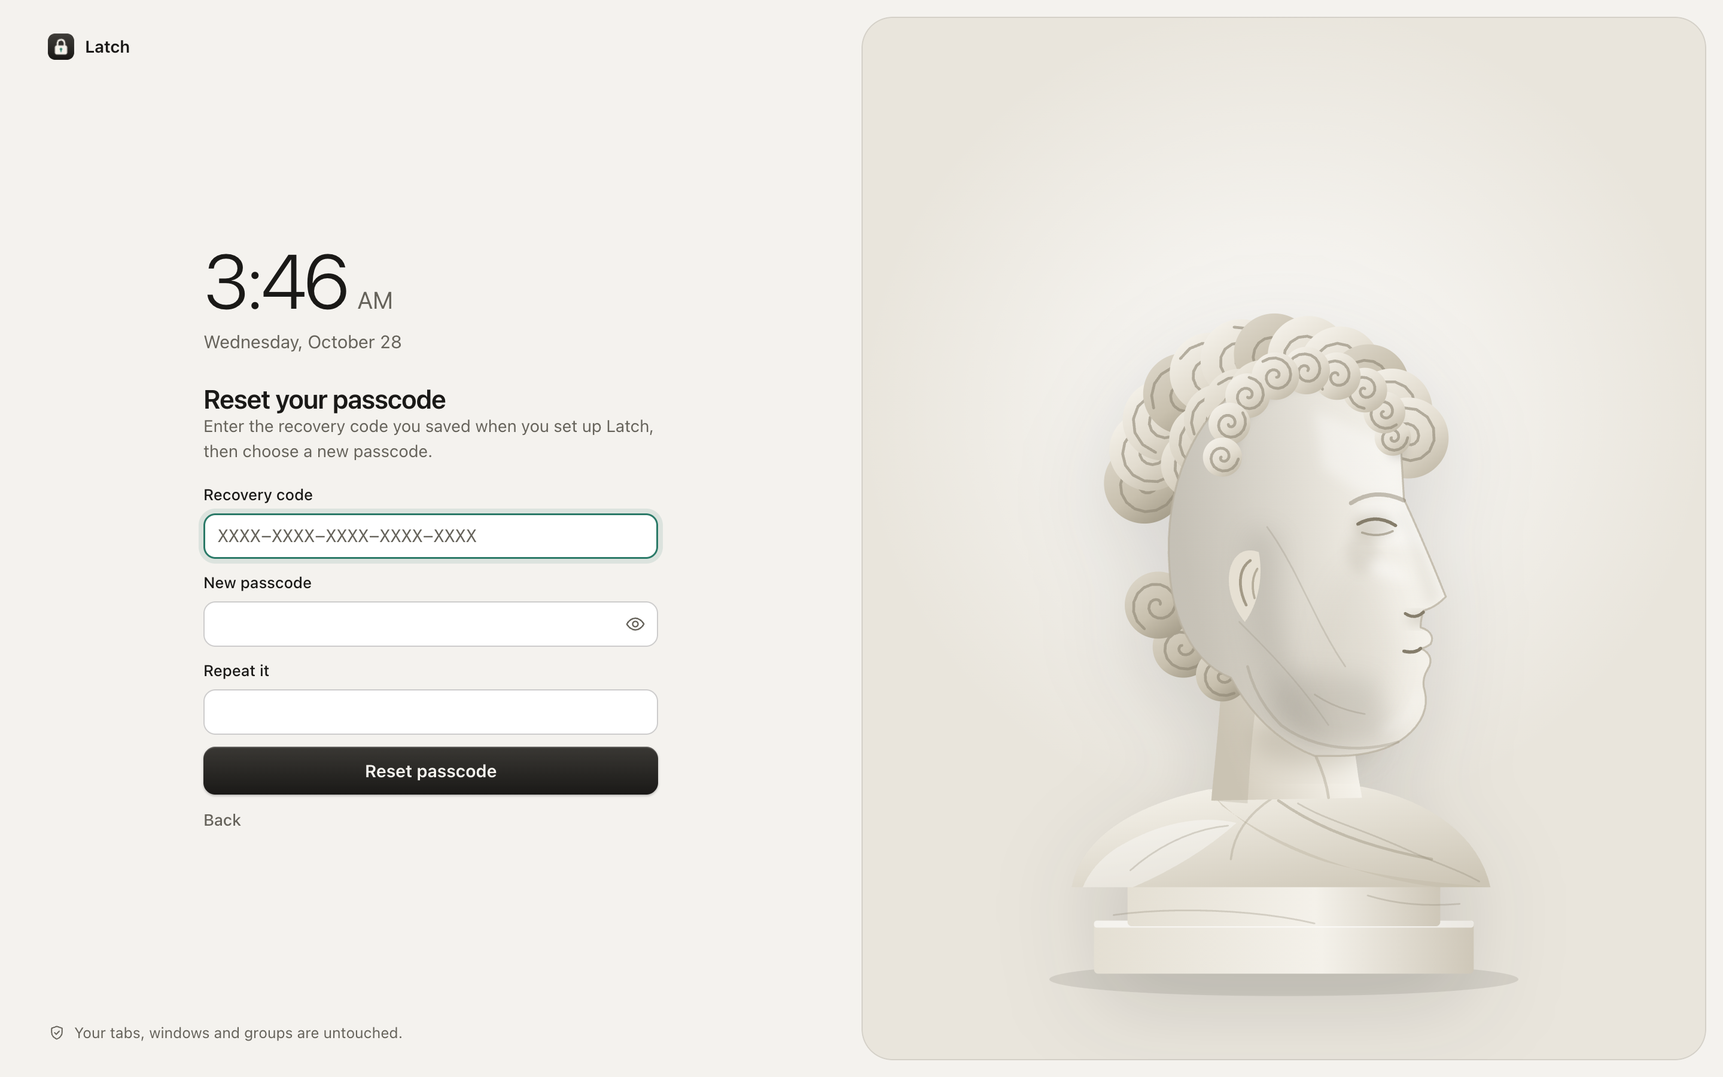
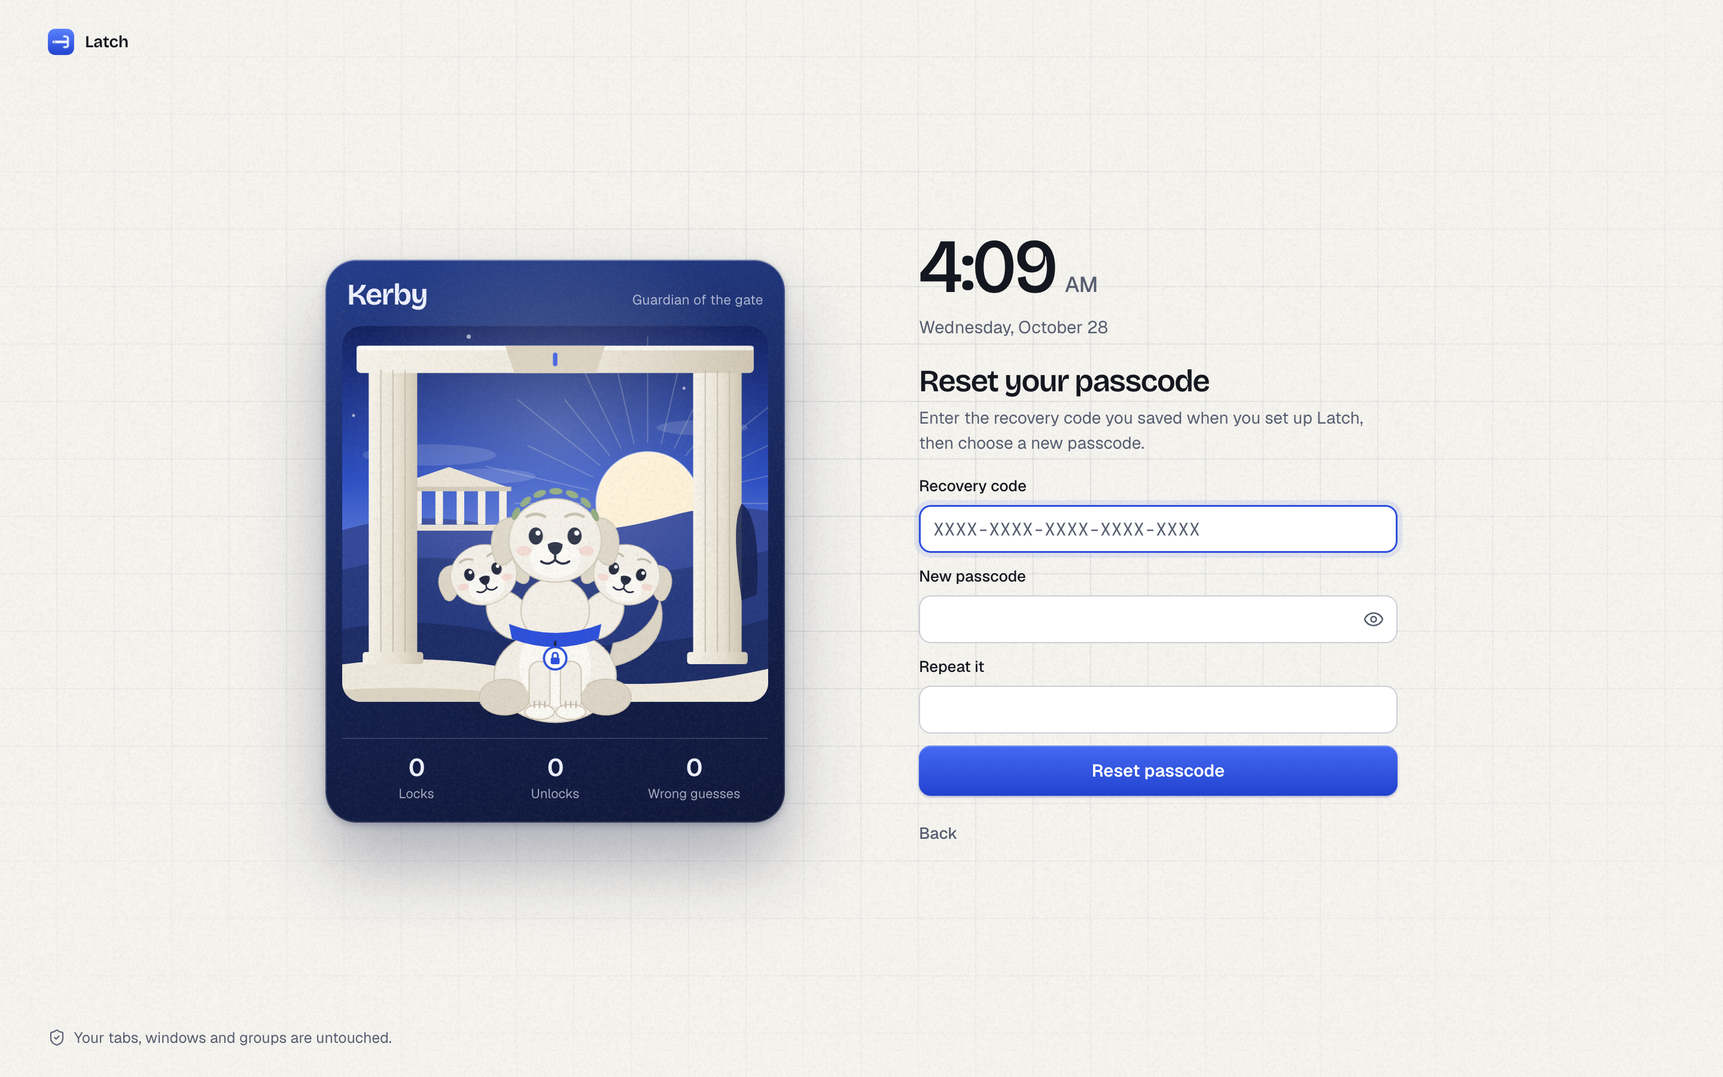
Update tests, screenshots, README and research for 0.3.0

diff --git a/README.md b/README.md
@@ -1,198 +1,127 @@
 <p align="center">
-  <img src="docs/logo.png" alt="Latch" width="104">
+  <img src="docs/logo.png" alt="Latch" width="88">
 </p>
 
 <h1 align="center">Latch</h1>
 
 <p align="center">
-  A passcode lock for your Brave or Chrome profile that covers things and <strong>never closes or changes your tabs</strong>.<br>
-  Auto-lock, Touch ID, a recovery code, and a Safari-style lock for private windows.
+  <b>Lock Brave like Safari locks private windows.</b><br>
+  A tiny passcode and Touch ID lock that covers your browser when you step away,<br>and never closes or changes a single tab.
+</p>
+
+<p align="center">
+  <a href="https://rajveeerr.github.io/latch/">Website</a> ·
+  <a href="#install-in-a-minute">Install</a> ·
+  <a href="https://github.com/rajveeerr/latch/releases/latest">Download</a> ·
+  <a href="docs/research.md">Research</a>
 </p>
 
 <p align="center">
   <a href="https://github.com/rajveeerr/latch/actions/workflows/test.yml"><img src="https://github.com/rajveeerr/latch/actions/workflows/test.yml/badge.svg" alt="tests"></a>
-  <img src="https://img.shields.io/badge/manifest-v3-2b7a68" alt="Manifest V3">
-  <img src="https://img.shields.io/badge/license-MIT-1a1917" alt="MIT license">
+  <img src="https://img.shields.io/badge/download-206%20KB-2b4fdb" alt="206 KB">
+  <img src="https://img.shields.io/badge/permissions-3-2b4fdb" alt="3 permissions">
+  <img src="https://img.shields.io/badge/network-none-2b4fdb" alt="no network">
+  <img src="https://img.shields.io/badge/license-MIT-14171f" alt="MIT">
 </p>
 
 <p align="center">
-  <img src="docs/screenshots/lock-light.png" alt="The Latch lock screen with a marble bust" width="860">
+  <img src="docs/screenshots/lock-light.png" alt="The Latch lock screen: a trading card of Kerby, the guard pup, beside the passcode field" width="880">
 </p>
 
-## Why Latch
+## Why I built this
 
-Most browser lockers work by closing windows or tabs and rebuilding them later, and when that goes wrong you
-lose tabs, tab groups and unsaved work. Latch only **covers** things. Nothing is closed, reloaded, discarded,
-navigated or edited, and everything it does (covering pages, muting tabs, minimizing windows) is undone when you unlock.
-A test fails the build if any code tries otherwise.
+I always wanted a **native lock in Brave**, like the one Safari has for private windows. It never shipped.
 
-It also fixes the things people complain about in other lockers: a forgotten passcode (it has a recovery code),
-private windows being skipped (it checks and guides you), and covers that are one DevTools click from removal
-(it adds a separate lock window in front of everything). The research behind these choices is in [docs/research.md](docs/research.md).
+So I used a lock extension. It crashed my browser at random and **lost my saved and grouped tabs** more than once. That was the last straw. I built the lock I wanted: fast like a native feature, light, secure, with the good features, and it **never closes or touches a tab**.
 
-## Features
+I was not alone. Brave's own tracker lists [password protection for tabs and profiles](https://github.com/brave/brave-browser/issues/42457) as P5, *"not on the official roadmap"*, and a community thread asking for [a password for the browser itself](https://community.brave.app/t/a-password-for-the-browser-itself/97057) has been running since December 2019. People wanted it for shared family PCs, guests and open desks, and they did not trust extensions that ask for many permissions. Latch asks for three.
 
-- **Passcode lock** for the whole profile, stored as a salted PBKDF2 hash. Wrong guesses are slowed down (5 s, 10 s, 20 s, up to 5 minutes).
-- **Recovery code.** A one-time 100-bit code, shown at setup, resets a forgotten passcode from the lock screen. Creating a new one retires the old one.
-- **Touch ID unlock (beta).** Unlock with Touch ID or your device passkey through WebAuthn. It is verified locally and hidden where unsupported. Your passcode always works too.
-- **Private windows only, like Safari.** Lock just your private windows when you step away and leave everything else open. Latch checks that it is allowed in private windows and walks you through turning it on.
-- **Auto-lock** after inactivity (30 seconds to 24 hours), after the browser has been in the background, on browser start, and on screen lock or sleep. Or lock instantly with `Control+Shift+L`.
-- **Activity log.** A local history of locks, unlocks and wrong guesses, with a notice in the popup if someone tried while you were away. Clearing it needs your passcode.
-- **Covers every page** with an opaque lock screen above dialogs and full-screen video, **pauses** media and **mutes** noisy tabs.
-- **Pause protection** for 15 minutes, 1 hour, 4 hours or until you resume. Anything that weakens protection asks for your passcode right where you are.
-- **Calm, native-feeling interface** in light and dark, with plain-language settings, a first-run checklist, and a lock screen that shows the time.
-- **No network, no accounts, no analytics.** Three permissions: `storage`, `idle`, `alarms`. MIT licensed.
+## Who it is for
 
-<p align="center">
-  <img src="docs/screenshots/settings-light.png" alt="Settings in light mode" width="430">
-  &nbsp;
-  <img src="docs/screenshots/settings-dark.png" alt="Settings in dark mode" width="430">
-</p>
+- You leave Brave open at home, at work or at school, and someone else could walk up to it.
+- You share a computer with family or roommates and want your logins, history and tabs to stay yours.
+- You have lost tabs to a lock extension before and never want to again.
 
-## A look around
+## What you get
 
-<p align="center">
-  <img src="docs/screenshots/settings-setup.png" alt="First run asks for one thing: a passcode" width="270">
-  &nbsp;
-  <img src="docs/screenshots/recovery-code.png" alt="Save your recovery code" width="270">
-  &nbsp;
-  <img src="docs/screenshots/settings-confirm.png" alt="Loosening a setting asks for the passcode in place" width="270">
-</p>
-
-<p align="center">
-  <img src="docs/screenshots/popup-light.png" alt="Toolbar popup" width="200">
-  &nbsp;
-  <img src="docs/screenshots/popup-pause.png" alt="Pausing protection" width="200">
-  &nbsp;
-  <img src="docs/screenshots/lock-recover.png" alt="Forgot passcode on the lock screen" width="360">
-</p>
-
-- **First run asks for one thing.** The rest of the settings wait until a passcode and a recovery code exist.
-- **Settings save as you change them,** and a plain sentence at the top always tells you when Latch will lock.
-- **Loosening a setting asks for your passcode in place,** and Esc cancels it.
-- **The mechanism is the status.** The isometric latch on the overview slides its bolt home when Latch locks.
-- **It tells you when it cannot work.** If you choose private windows only but have not allowed Latch in private windows, the overview and the popup say so instead of showing a false "protecting".
-
-<p align="center">
-  <img src="docs/screenshots/private-warning.png" alt="The overview when private windows are not allowed yet" width="520">
-  &nbsp;
-  <img src="docs/screenshots/popup-private-warning.png" alt="The popup in the same situation" width="180">
-</p>
-
-<p align="center">
-  <img src="docs/art/latch-unlocked.svg" alt="The latch mechanism, unlocked" width="300">
-  &nbsp;&nbsp;
-  <img src="docs/art/latch-locked.svg" alt="The latch mechanism, locked" width="300">
-</p>
-
-## Install
-
-Latch is not in a web store yet, so you load it as an unpacked extension. This takes a minute.
-
-1. Download `latch-<version>.zip` from the [latest release](https://github.com/rajveeerr/latch/releases/latest) and unzip it somewhere permanent (the browser reads it from that folder, so do not delete it). Or clone this repo.
-2. Open `brave://extensions` (or `chrome://extensions`) and turn on **Developer mode**.
-3. Click **Load unpacked** and choose the folder that contains `manifest.json`.
-4. The settings page opens. **Set a passcode, then save your recovery code.** Latch does nothing until you do.
-5. Pin Latch to the toolbar (puzzle-piece menu) for quick access.
-6. Optional: in the extension's details, turn on **Allow in private** (Brave) or **Allow in Incognito** (Chrome) so Latch covers private windows too. The settings page has a button that opens it for you.
-
-Latch locks **the profile it is installed in**. Install it in each profile you want to protect.
-
-## Use
-
-| You want to | Do this |
+| | |
 |---|---|
-| Lock right now | Toolbar button, then **Lock now**, or `Control+Shift+L` |
-| Unlock | Passcode on the lock screen, or **Use Touch ID** |
-| Forgot your passcode | On the lock screen choose **Forgot passcode** and enter your recovery code |
-| Lock only private windows | Settings, **What to protect**, then **Private windows only** |
-| Change how long until it locks | Settings, **When to lock** |
-| Pause protection | Overview, **Pause**, or the toolbar popup |
-| See who tried your browser | Settings, **Activity** |
-| Change the shortcut | Settings, **Help**, **Change the shortcut** |
-| Remove it | `brave://extensions`, then **Remove**. Your tabs are not affected |
-
-## What locking does
+| **Passcode lock** that covers every page, pauses media and mutes tabs | **Touch ID** (beta) through WebAuthn, with your passcode always as backup |
+| **Private windows only** mode, like Safari, so the rest of the browser stays open | **Auto-lock** after inactivity, in the background, on sleep or at startup |
+| **Recovery code**, so a forgotten passcode never means removing the extension | **Activity log** of locks, unlocks and wrong guesses, on your computer only |
+| **Kerby**, a three-headed guard pup who closes his eyes while you type and growls at a wrong guess | **Light and dark** that follow your system, in a calm native-feeling interface |
 
 <p align="center">
-  <img src="docs/screenshots/page-unlocked.png" alt="A page before locking" width="360">
+  <img src="docs/screenshots/onboarding-welcome.png" alt="Onboarding with Kerby" width="300">
   &nbsp;
-  <img src="docs/screenshots/page-covered.png" alt="The same page while locked" width="360">
+  <img src="docs/screenshots/lock-growl.png" alt="Kerby growling at a wrong passcode" width="300">
+  &nbsp;
+  <img src="docs/screenshots/popup-light.png" alt="The toolbar popup" width="170">
 </p>
 
-When Latch locks, in this order: it records the state, covers every page, pauses media, mutes noisy tabs, tries to minimize
-your windows, and (in "everything" mode) opens a full-size lock window on top. If you close that window it comes straight back.
-If a window appears while locked (new window, session restore) it is hidden too. Unlocking reverses each step and closes only
-Latch's own lock window, after checking that it really is that window.
+## Install in a minute
 
-Tab titles, favicons and page titles are never altered. One thing Latch does change: if a page is playing a video full screen,
-it leaves full screen so the cover can show.
+Latch is not in a web store yet, so you load it as an unpacked extension.
 
-## Security model, honestly
+1. [Download the latest zip](https://github.com/rajveeerr/latch/releases/latest) and unzip it somewhere permanent. The browser reads it from that folder, so do not delete it.
+2. Open `brave://extensions` and switch on **Developer mode**.
+3. Click **Load unpacked** and choose the unzipped folder (the one with `manifest.json` in it).
+4. Kerby says hello. Pick a passcode and **save your recovery code**. Optionally, switch on **Allow in private** in the extension's details so private windows are covered too.
+
+Latch locks the profile it is installed in. Install it in each profile you want to protect. `Control+Shift+L` locks instantly.
+
+## Pair it with your Mac's lock
+
+Latch covers your browser. macOS covers everything else. Press **Control + Command + Q** to lock your Mac whenever you step away, and in System Settings turn on *Require password immediately* after sleep or screen saver. Together they cover the whole machine.
+
+## Light and fast
+
+Measured on a MacBook with Chromium:
+
+| | |
+|---|---|
+| Download | **206 KB** (fonts and art included) |
+| Script on every web page | **5 KB**, which only draws a cover and reads nothing |
+| Lock screen first paint | **~70 ms** (popup ~60 ms, settings ~90 ms) |
+| Permissions | **3**: `storage`, `idle`, `alarms` |
+| Network, accounts, analytics | **none** |
+
+<details>
+<summary><b>How it compares</b></summary>
+
+Other lockers are worth knowing about: [Locksy](https://www.locksy.dev/) (per-tab and per-site locks), Chrome Lock Pro, [Secure Browser Lock](https://github.com/benjamindimalanta/secure-browser-lock) and Browserlock. Latch's angle is different: it never destroys state, it has a recovery path, it guides you into private windows, and it stays tiny. It does **not** (yet) do per-site locks, schedules or decoy PINs. The full notes, with sources, are in [docs/research.md](docs/research.md).
+
+</details>
+
+<details>
+<summary><b>Honest limits</b></summary>
 
 Latch is a **privacy lock for a browser you leave on a desk**, not a security boundary.
 
-- It stops a casual person walking up to your computer. It does not stop someone with time, skill or a terminal.
-- A browser extension cannot hide the tab strip or the address bar. Latch relies on minimizing windows and on the lock window in front. Minimizing is best effort: Chromium and Brave ignored the request in automated tests, so a window may stay visible behind the lock window.
-- **"Private windows only" is lighter protection.** It has no lock window in front, only the page cover and minimizing, and a cover can be removed from DevTools. Use "everything" mode when that matters.
-- Anyone who can reach `brave://extensions` can remove Latch. While locked it hides or re-covers any window that comes forward, but it cannot make that page unreachable.
-- The passcode hash is stored in the profile folder. Someone who copies that folder could try guesses offline. PBKDF2 slows that down, but **use a long passphrase**, not a 4-digit code. The recovery code carries 100 bits and is stored the same way.
-- **Touch ID is beta.** The WebAuthn verification is tested with a virtual authenticator in Chromium and Brave. It has not been verified against real Touch ID hardware in Brave, which is why it is labelled beta and falls back to the passcode.
-- Anything that can read your disk can read your cookies and sessions without opening the browser. For that, use FileVault and a macOS login password.
+- It stops a casual passer-by, not someone with time, skill or a terminal. A browser extension cannot hide the tab strip, so minimizing is best effort and a lock window sits in front.
+- **Private windows only** mode is lighter protection: no lock window in front, just the page cover, which DevTools can remove.
+- Anyone who can reach `brave://extensions` can remove Latch. Use your computer's own lock and a sign-in password too.
+- The passcode hash lives in the profile folder. Use a long passphrase, not four digits.
+- **Touch ID is beta.** The WebAuthn logic is tested with a virtual authenticator in Chromium and Brave, not yet on real Touch ID hardware in Brave.
 
-## Troubleshooting
+</details>
 
-**Windows do not minimize when locked.** Some environments ignore the minimize request. Latch still covers every page and puts its lock window in front. Please [open an issue](https://github.com/rajveeerr/latch/issues) with your OS and browser version.
-
-**It did not lock after the inactivity time.** Inactivity means no keyboard or mouse input anywhere on the computer, as reported by the browser's idle API (the shortest time it supports is 15 seconds). If you watch videos without touching anything, turn on *Stay unlocked while a tab plays sound*, or turn it off for a strict timer.
-
-**Private windows are not covered.** Turn on *Allow in private* (Brave) or *Allow in Incognito* (Chrome) in the extension's details. The settings page shows whether it is on.
-
-**A page such as `brave://settings` is not covered.** Extensions cannot draw on browser-internal pages. In "everything" mode they sit behind the lock window.
-
-**I forgot my passcode.** Use **Forgot passcode** on the lock screen with your recovery code. Without it, remove and re-add the extension at `brave://extensions`. Your tabs are untouched.
-
-**Something is stuck.** Turn Latch off at `brave://extensions`. Covers disappear at once. If a tab is still muted, unmute it, and if a window is still minimized, restore it from the Dock. None of it changes your tabs or saved data.
-
-## How it works
-
-- `src/background.js` is the service worker. It decides when to lock, runs the lock and unlock steps one at a time, and only talks to Latch's own pages.
-- `src/cover.js` is the content script. It reacts to the stored lock state, builds the cover in a closed shadow root in the top layer, pauses media and swallows key presses.
-- `src/lib/auth.js` is the passcode and recovery-code logic (PBKDF2, throttling). `src/lib/webauthn.js` verifies Touch ID sign-ins locally. `src/lib/activity.js` is the capped activity log. `src/lib/settings.js` holds the defaults and the rule for what counts as loosening a setting.
-- `ui/` has the lock screen, popup and settings page, the icon sprite, and the two illustrations.
-- State that must survive a browser restart lives in `storage.local`. Window and tab ids live in `storage.session`, which the browser clears itself.
-
-The illustrations are code, not images. `ui/art/bust.svg` is built by `scripts/make-bust.mjs` from vector shapes (carved snail-shell curls,
-soft tonal planes clipped to the face). The isometric latch is built by `scripts/make-mechanism.mjs`: 45 solid parts, an isometric camera
-at 30 degrees, painted back to front, one accent on the lit part. Its bolt, spring and lamp animate between locked and unlocked
-(and stand still for anyone who prefers reduced motion).
-
-## Develop
+<details>
+<summary><b>Develop</b></summary>
 
 ```sh
-npm install                # only needed for the e2e test and the screenshot and art scripts
-npm test                   # 41 unit tests: passcode, recovery, WebAuthn, settings rules, safety rules
-BRAVE=1 npm run test:e2e   # 17 end-to-end checks in real Brave with a throwaway profile
-CHROMIUM_PATH=/path/to/chromium npm run test:e2e   # the same, in Chromium
-node scripts/make-mechanism.mjs   # regenerate the latch illustration
-node scripts/make-bust.mjs        # regenerate the bust
-npm run screenshots        # regenerate the README screenshots
-npm run zip                # builds dist/latch-<version>.zip
+npm install                  # only for the tests and the art scripts
+npm test                     # 41 unit tests: passcode, recovery, WebAuthn, settings, safety rules
+BRAVE=1 npm run test:e2e     # 17 end-to-end checks in real Brave with a throwaway profile
+npm run zip                  # dist/latch-<version>.zip
+node scripts/make-icons-sprite.mjs   # icons from Lucide
+node scripts/build-site.mjs          # copy shared assets into site/
 ```
 
-The safety test fails the build if any code tries to close, reload, discard or navigate a tab, closes a window other than the lock
-window, opens any tab other than Latch's own pages, asks for extra permissions or touches the network. The end-to-end test locks a tab
-that is playing audio and has an unsaved draft, then checks the tab, its address, its title and the draft survived.
-Idle-based locking and "private windows only" mode depend on real inactivity and a manual browser setting, so they are checked by hand.
+The safety test fails the build if any code closes, reloads, discards or navigates a tab, closes a window other than its own lock window, asks for more permissions or touches the network. Kerby, the painted scene and the isometric latch are drawn in code (`ui/kerby.js`, `ui/scene.js`, `scripts/make-mechanism.mjs`).
 
-## Roadmap
+</details>
 
-Per-site locks, scheduled locks, a Chrome Web Store release, and real-hardware testing of Touch ID. See [docs/research.md](docs/research.md) for why each is on or off the list.
+## Credits
 
-## Contributing
-
-Issues and pull requests are welcome. Please keep the safety rules above intact, and add a test with any behaviour change.
-
-## License
-
-[MIT](LICENSE)
+Fonts: [Geist](https://github.com/vercel/geist-font) and [Bricolage Grotesque](https://github.com/ateliertriay/bricolage) (OFL). Icons: [Lucide](https://lucide.dev) (ISC). Built by [@rajveeerr](https://github.com/rajveeerr). [MIT](LICENSE).

diff --git a/docs/research.md b/docs/research.md
@@ -4,6 +4,20 @@ What other browser lockers offer, what their users run into, and what that means
 Everything here comes from public pages (linked). Vendor pages and vendor blog posts describe
 their own products, so treat their claims and rankings as self-reported.
 
+## What people are asking Brave for
+
+| Source | What it says |
+|---|---|
+| [brave-browser #42457](https://github.com/brave/brave-browser/issues/42457) | "Password-Protection on Tabs and/or Profiles", opened Nov 2024. Labelled `priority/P5`, which a maintainer clarified means it is not on the official Brave roadmap. A May 2026 comment suggests profile-level protection that also encrypts local data. |
+| [brave-browser #54226](https://github.com/brave/brave-browser/issues/54226) | A request for a simple 4 to 8 digit password lock for desktop profiles, closed as a duplicate of #42457 in April 2026. |
+| [brave-core #36413](https://github.com/brave/brave-core/pull/36413) | An Android "browser-wide lockdown" pull request, so the idea exists inside Brave, just not on desktop. |
+| [Brave Community: "A password for the browser itself"](https://community.brave.app/t/a-password-for-the-browser-itself/97057) | Running since December 2019. Use cases: a shared family PC, guests, a family laptop. Pain points: logging out each time is a hassle; saved passwords are visible to anyone at the keyboard; an extension like LockPW is distrusted because it asks for many permissions; extensions add clutter and resource use; some people stay on Firefox for its master password. |
+| [Brave Community: "Password lock / encrypt Brave Browser"](https://community.brave.com/t/password-lock-encrypt-brave-browser-for-security-and-privacy-reasons/103127/17) | A reply says an issue is open, that many people use external password managers, and that the user experience is hard to get right. |
+
+I could not reach Reddit with the research tools used here, so no Reddit threads are cited.
+
+What this changed in Latch: **three permissions and no network** (the distrust of extensions), **a tiny download and a 5 KB page script** (clutter and resource use), **never closing tabs** (the maker's own lost tabs), a **recovery code** (lockouts), and a Safari-style **private windows only** mode (the request people keep making).
+
 ## What exists
 
 | Product | What it offers | Notes |
